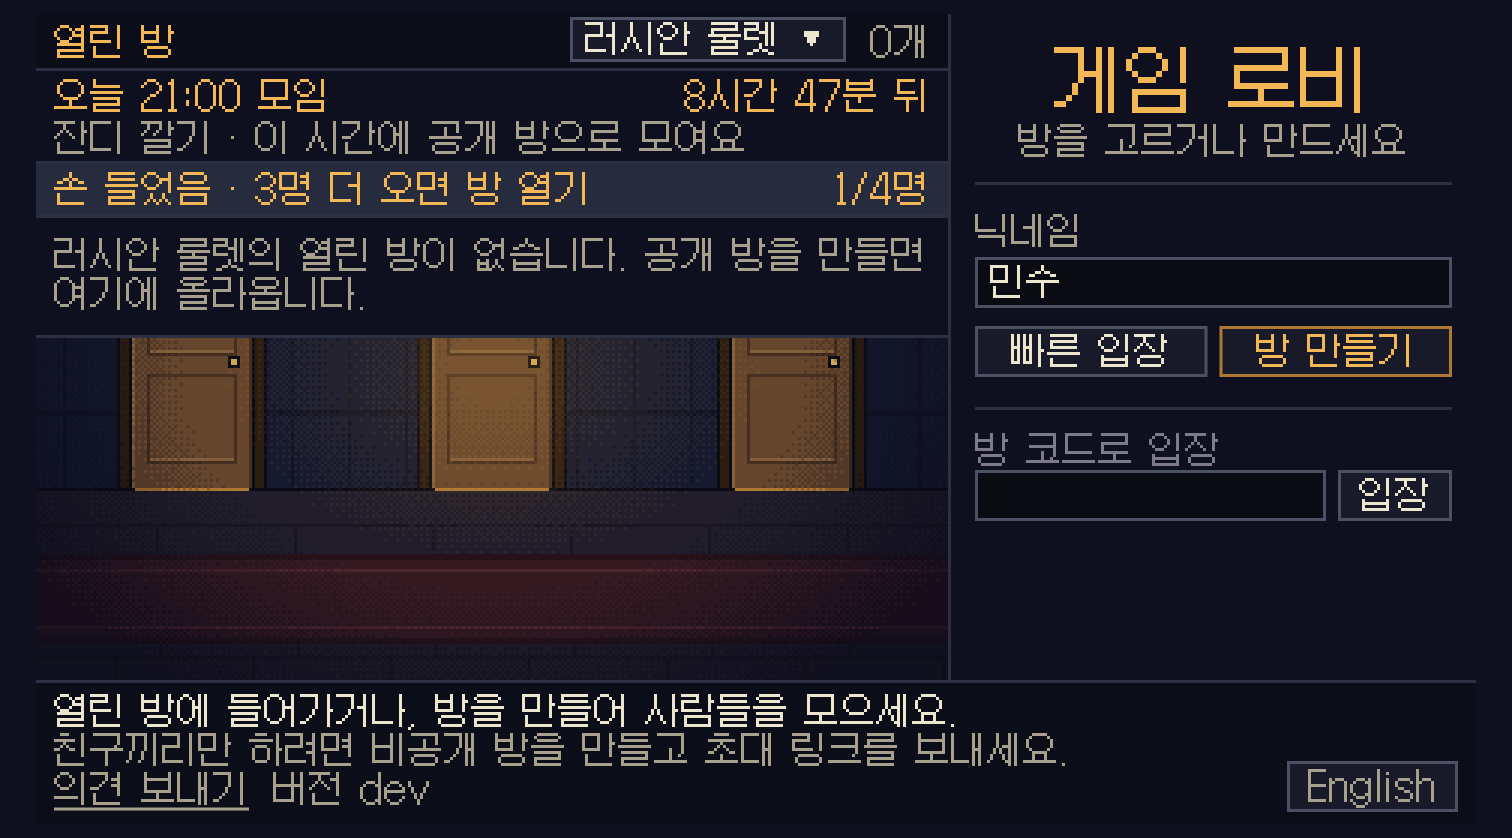
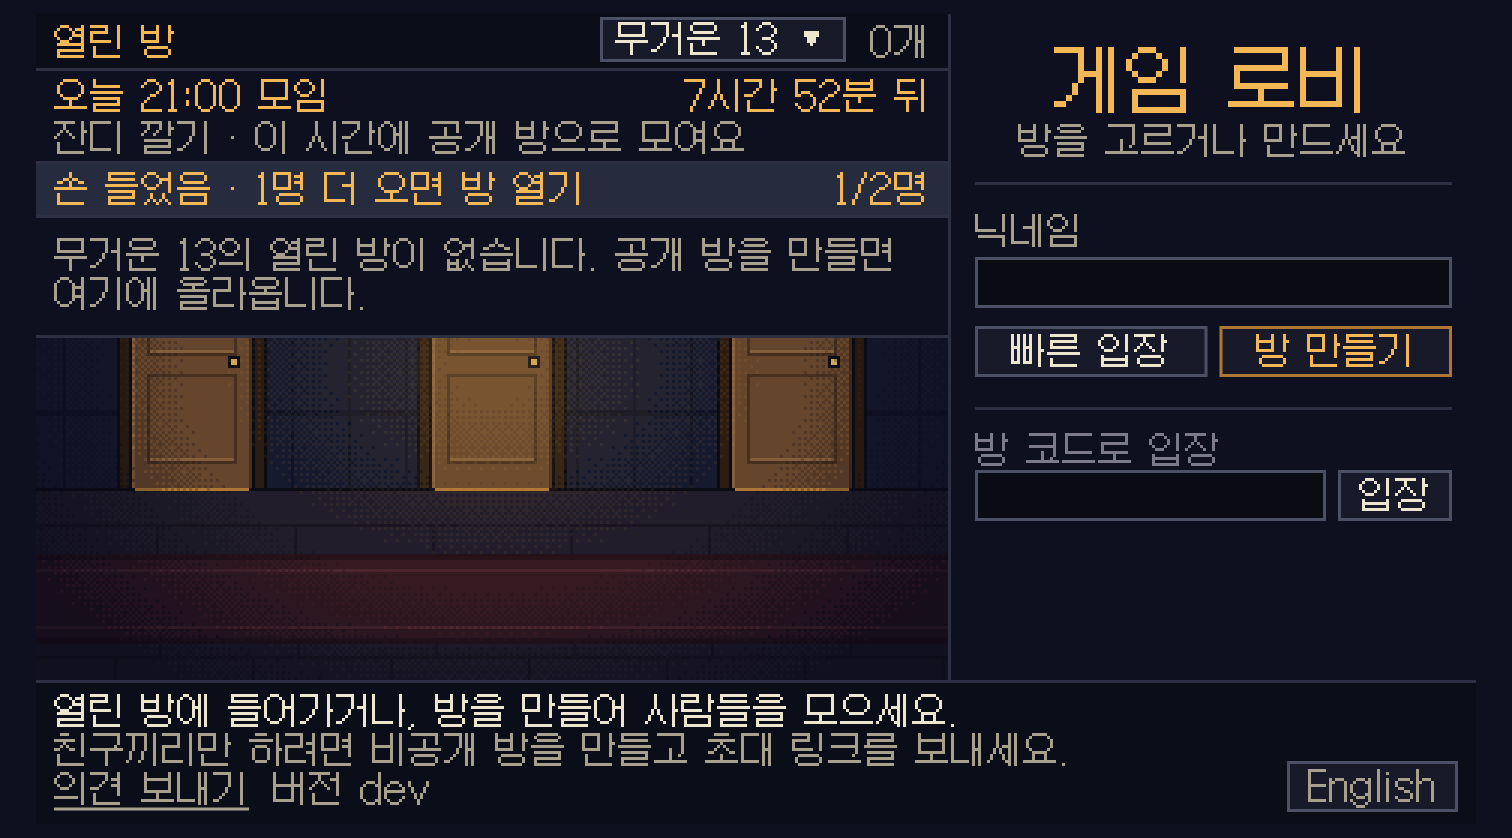
fix: the lobby has no line for hands until there is something to say about them
After the deploy the user said the lobby had become too cluttered
("게임로비가너무지저분해졌는데"). What had been added to the lobby a
first-time visitor sees was the line for hands: with every game listed
and no hand up it said "하고 싶은 게임에 손 들기" in teal, a fourth block
of words in a third colour over a list that was empty anyway.

With every game listed and no hand up anywhere, the line is now not
there, and the lobby is as it was before the hands. It is there once a
game is picked (offering a hand for it) or a hand is up for some game
(saying how many, for everyone). It is in a room row's own colours,
amber once the player's own hand is up.

That it was this line the user meant is the assistant's reading: the
user did not say which part. The two sentences it no longer says are
taken out of both languages.

Checked: tests/unit/want and tests/unit/lang (37 pass); type check; in
ego-browser on the local server, Korean: the lobby by default (no
line), with 무거운 13 picked (the offer) and with the hand raised
(production/qa/evidence/want-2026-11-13-1-none-ko.png, -1-offer-ko.png,
-2-raised-ko.png; -1-pick-ko.png showed the line that is gone and is
removed).
Not checked: the whole suite; English and a phone-sized screen after
this change (the line's sentences and size are as they were).

Design: design/game-brief.md (손 들기)

diff --git a/src/client/main.ts b/src/client/main.ts
@@ -1113,7 +1113,7 @@ function renderWant(): void {
   const [said, count] = ((): [string, string] => {
     switch (row.kind) {
       case "pick":
-        return [WORDS.want.pick, WORDS.want.pickGo];
+        return ["", ""];
       case "others":
         return [WORDS.want.others(nameOf(row.game)), WORDS.want.othersCount(row.count)];
       case "offer":
@@ -1129,7 +1129,9 @@ function renderWant(): void {
   const [left, right] = [...wantButton.children];
   left.textContent = said;
   right.textContent = count;
-  wantButton.hidden = false;
+  // With every game listed and no hand up anywhere the line has nothing to say, and says nothing: the lobby
+  // already has the meeting and the list to read. It is there once a game is picked, or a hand is up for one.
+  wantButton.hidden = row.kind === "pick";
   wantButton.classList.toggle("up", myWant !== null);
   wantButton.classList.toggle("on", row.kind === "gathered" || row.kind === "open");
   // enough hands are up now, and were not: whoever raised theirs has likely gone to another tab to wait
@@ -1139,10 +1141,7 @@ function renderWant(): void {
 
 wantButton.addEventListener("click", () => {
   const row = wantNow();
-  if (row.kind === "pick") {
-    showGamePicks(true);
-    return;
-  }
+  if (row.kind === "pick") return;
   if (row.kind === "others") return pickGame(row.game);
   if (row.kind === "offer") sayWant(row.game);
   else if (row.kind === "raised") sayWant(null);

diff --git a/src/client/words.ts b/src/client/words.ts
@@ -141,12 +141,10 @@ const ko = {
   },
   /**
    * Under the meeting: a hand raised for a game (`src/shared/want.ts`). One line, what it says on the left and a
-   * number on the right; `game` is a game's name, the longest of which has to fit beside the number.
+   * number on the right; `game` is a game's name, the longest of which has to fit beside the number. With every
+   * game listed and no hand up anywhere there is no line.
    */
   want: {
-    /** Every game's rooms are listed and no hand is up: a press shows the games. */
-    pick: "하고 싶은 게임에 손 들기",
-    pickGo: "게임 고르기",
     /** Hands are up for a game: a press shows it. */
     others: (game: string) => `${game} 하려는 사람`,
     othersCount: (count: number) => `${count}명`,
@@ -524,8 +522,6 @@ const en: typeof ko = {
     what: (game) => `${game} · meet in public rooms`,
   },
   want: {
-    pick: "Raise a hand for a game",
-    pickGo: "Pick a game",
     others: (game) => `Hands up for ${game}`,
     othersCount: (count) => `${count}`,
     offer: (game) => `Hand up for ${game}?`,

diff --git a/src/client/style.css b/src/client/style.css
@@ -424,7 +424,7 @@ ul {
   background: #3a2a12;
 }
 
-/* A hand raised for a game: one line under the meeting, what it says on the left and a number on the right; lit when a press would open a room or go into one. */
+/* A hand raised for a game: one line under the meeting, in a room row's own colours, what it says on the left and a number on the right; amber once the player's hand is up, lit when a press would open a room or go into one. */
 #want {
   flex: none;
   /* one line where a room's row has two; a finger still has the height of a button to press */
@@ -438,10 +438,6 @@ ul {
 
 #want[hidden] {
   display: none;
-}
-
-#want .room-host {
-  color: var(--teal);
 }
 
 #want.up .room-host {

diff --git a/src/shared/want.ts b/src/shared/want.ts
@@ -48,7 +48,7 @@ export function parseWanting(raw: unknown): Wanting | null {
  * What the lobby's row of hands says and does, by what the player is looking
  * at and whether their own hand is up:
  *
- * - `pick`: every game's rooms, and no hand up anywhere: a press shows the games.
+ * - `pick`: every game's rooms, and no hand up anywhere: the row is not shown.
  * - `others`: every game's rooms, and hands are up for `game` (the game with
  *   the most): a press shows that game.
  * - `offer`: one game's rooms, the player's hand down: a press raises it.

diff --git a/design/game-brief.md b/design/game-brief.md
@@ -101,7 +101,7 @@
 - [x] 닫힌 방의 초대 링크: 초대 링크로 왔는데 그 방이 이미 없어졌으면(사람이 다 나간 방은 치워진다) "그런 방이 없습니다" 대신 "초대받은 방은 닫혔습니다. 방을 고르거나 만드세요."라고 알린다. 죽은 코드는 칸에서 지워 불 켜진 버튼이 「방 만들기」가 되고, 방 목록은 그 링크의 게임 것만 보이며, 새 방도 그 게임으로 시작한다. 어느 게임의 링크였는지는 초대 링크가 거쳐 가는 페이지(`/i/<언어>/<게임>/`)가 탭의 저장소에 남겨 게임 페이지가 한 번 읽고 지운다; 옛 링크(`/#코드`)나 저장소가 막힌 브라우저에서는 게임을 몰라 목록을 좁히지 않는다. 방장이 내보낸 사람에게는 이 안내가 아니라 내보냈다는 말이 그대로 나온다 *(guessed: 문구와 방법은 만든 쪽의 선택)*
 - [x] 운영 숫자판: 사이트가 날마다 자기를 센다. 로비 방문 횟수와 사람 수(주소 기준), 한때 가장 많이 보고 있던 수, 시간대별 방문, 만든 방(공개 몇 개), 시작한 판과 끝난 판(게임별로, 판마다 평균 몇 명·몇 분), 그리고 한 판도 못 하고 비워진 방을 둘로 나눠서: 아무도 안 와서 혼자 기다리다 나간 방, 모였는데 시작을 못 한 방. 방이 로그에 쓰던 네 가지(만듦·시작·끝·비움)를 방 목록 서버에도 알리고, 방 목록 서버가 날짜별로 더해 둔다 (`src/shared/numbers.ts`). 읽는 곳은 로비를 `?numbers`로 열어 의견함과 같은 열쇠(`FEEDBACK_KEY`)를 넣는 창이고, 틀린 열쇠는 의견함의 틀린 열쇠와 함께 센다. 숫자뿐이다: 방 코드·닉네임·주소는 남기지 않는다. 한 사람을 한 번만 세려고 주소의 다이제스트를 그날 하루만 두었다가 날이 바뀌면 버린다. 날짜와 시각은 한국 시각(UTC+9)으로 세고 120일치를 둔다 (`numbers-config.json`). 방은 이 알림을 기다리지 않으며, 알림이 실패하면 그 한 건은 세지 못한다. 다시 온 사람(1일·7일 뒤) 세기는 만들지 않았다: 브라우저가 처음 온 날짜를 보내야 해서 사용자 결정이 필요하다 *(guessed: 무엇을 세는지, 보관 기간, 읽는 방법 모두 만든 쪽의 선택)*
 - [x] 색 말고도 구분되는 표시: 색 하나로만 구분되던 두 곳에 색이 아닌 표시를 더했다. 무거운 13의 색깔 칩에는 받침대 순서대로 세로 획이 하나·둘·셋(빨강 Ⅰ, 초록 Ⅱ, 파랑 Ⅲ) 그려지고, 받침대 이름 앞에 같은 칩이 있어 따로 외울 것이 없다 (손패의 칩 버튼은 글자 없이 색 네모와 개수뿐이었다). 잔디 깔기의 놓인 타일에는 빈 칸 하나에 주인 닉네임의 첫 글자가 그 타일의 어두운 색으로 적힌다 (같은 타일을 여럿이 고를 수 있어 타일 번호로는 누구 것인지 알 수 없었다; 칸이 13픽셀보다 작은 공원에서는 번호와 마찬가지로 적지 않는다). 러시안 룰렛의 "봤던 그대로" 약실(닫힌 뚜껑에 본 색의 글자)은 그대로 두었다: 뚜껑이 15×13픽셀이라 밑줄은 F를 E로 보이게 했고 둘레의 점은 글자와 겹쳤다; 두 글자색은 밝기가 다르다(청록의 상대 휘도 0.50, 진홍 0.20) *(guessed: 표시의 모양은 만든 쪽의 선택; 색각 시뮬레이션이나 색각 이상이 있는 사람의 확인은 거치지 않음)*
-- [x] 손 들기 (대기 깃발): 로비의 모임 줄 아래 한 줄. 게임을 고르면 「○○ 하고 싶어요 · 손 들기」가 되고, 누르면 손을 든다. 손을 든 사람 수는 로비의 모두에게 게임별로 보인다(누구인지는 보이지 않는다): 모든 게임을 보는 사람에게는 손이 가장 많은 게임이 「○○ 하려는 사람 N명」으로 나오고 누르면 그 게임으로 간다. 그 게임을 시작할 수 있는 수(최소 인원, 적어도 2명)가 모이면 손 든 사람들의 줄에 불이 들어오며 「N명 모임 · 눌러서 공개 방 열기」가 되고, 한 사람이 누르면 그 게임의 공개 방이 만들어져 그 사람이 방장이 된다; 나머지의 줄은 「방이 열렸습니다 · 눌러서 들어가기」로 바뀐다. 모인 순간 탭이 뒤에 있으면 제목이 「● 모였습니다」로 부른다. 방이 저절로 생기지는 않는다. 손은 로비 연결 하나의 것이라 로비를 떠나면(방에 들어가도) 내려가고, 다른 게임을 보면 내려가며, 한 번에 한 게임에만 든다. 주소가 같아도 연결이 다르면 따로 센다(한집의 두 사람은 둘이다; 한 사람이 탭 둘로 두 번 들 수는 있다). 손을 든 횟수는 운영 숫자판에 게임별로 남는다 (`src/shared/want.ts`) *(guessed: 방식과 문구 모두 만든 쪽의 선택; 방송에는 없는 사이트의 기능)*
+- [x] 손 들기 (대기 깃발): 로비의 모임 줄 아래 한 줄. 모든 게임을 보고 있고 아무도 손을 들지 않았으면 이 줄은 없다 (처음에는 그때도 「하고 싶은 게임에 손 들기」가 있었는데, 2026-11-13 배포 뒤 사용자가 로비가 너무 지저분해졌다고 해서 뺐다). 게임을 고르면 「○○ 하고 싶어요 · 손 들기」가 되고, 누르면 손을 든다. 손을 든 사람 수는 로비의 모두에게 게임별로 보인다(누구인지는 보이지 않는다): 모든 게임을 보는 사람에게는 손이 가장 많은 게임이 「○○ 하려는 사람 N명」으로 나오고 누르면 그 게임으로 간다. 그 게임을 시작할 수 있는 수(최소 인원, 적어도 2명)가 모이면 손 든 사람들의 줄에 불이 들어오며 「N명 모임 · 눌러서 공개 방 열기」가 되고, 한 사람이 누르면 그 게임의 공개 방이 만들어져 그 사람이 방장이 된다; 나머지의 줄은 「방이 열렸습니다 · 눌러서 들어가기」로 바뀐다. 모인 순간 탭이 뒤에 있으면 제목이 「● 모였습니다」로 부른다. 방이 저절로 생기지는 않는다. 손은 로비 연결 하나의 것이라 로비를 떠나면(방에 들어가도) 내려가고, 다른 게임을 보면 내려가며, 한 번에 한 게임에만 든다. 주소가 같아도 연결이 다르면 따로 센다(한집의 두 사람은 둘이다; 한 사람이 탭 둘로 두 번 들 수는 있다). 손을 든 횟수는 운영 숫자판에 게임별로 남는다 (`src/shared/want.ts`) *(guessed: 방식과 문구 모두 만든 쪽의 선택; 방송에는 없는 사이트의 기능)*
 - [x] 차례 제한 시간 (방 설정): 문서에는 없는 진행상의 장치. 방장이 무제한·60초·120초 중에 고르고, 넘기면 그 차례는 지나가며 크레딧 1개를 잃는다 (`rules-config.json`의 `costTimeout`). 잃은 크레딧은 조작에 쌓이지 않고 사라진다: 아무도 두지 않는 자리가 탁자의 조작을 돕지도 막지도 않게. 시간 초과는 비공개 행동이 아니라 시간 초과로 알린다. 조작을 따내고 두 칸을 고르지 않은 채 시간이 지나면 교환권은 사라지고, 그 차례는 비공개 행동으로 알린다. 비공개 방은 문서대로 무제한, 공개 방은 60초로 시작 *(guessed)*
 - [x] 음성 채팅: 비공개 방에서, 방 사람들의 기기끼리 직접 연결 (WebRTC). 켜기·마이크 끄기·나가기, 이름 옆에 말하는 중 표시. 공개 방은 모르는 사람에게 IP 주소가 보일 수 있어 꺼 둠 (`voice-config.json`의 `listedRooms`) *(guessed)*
 
